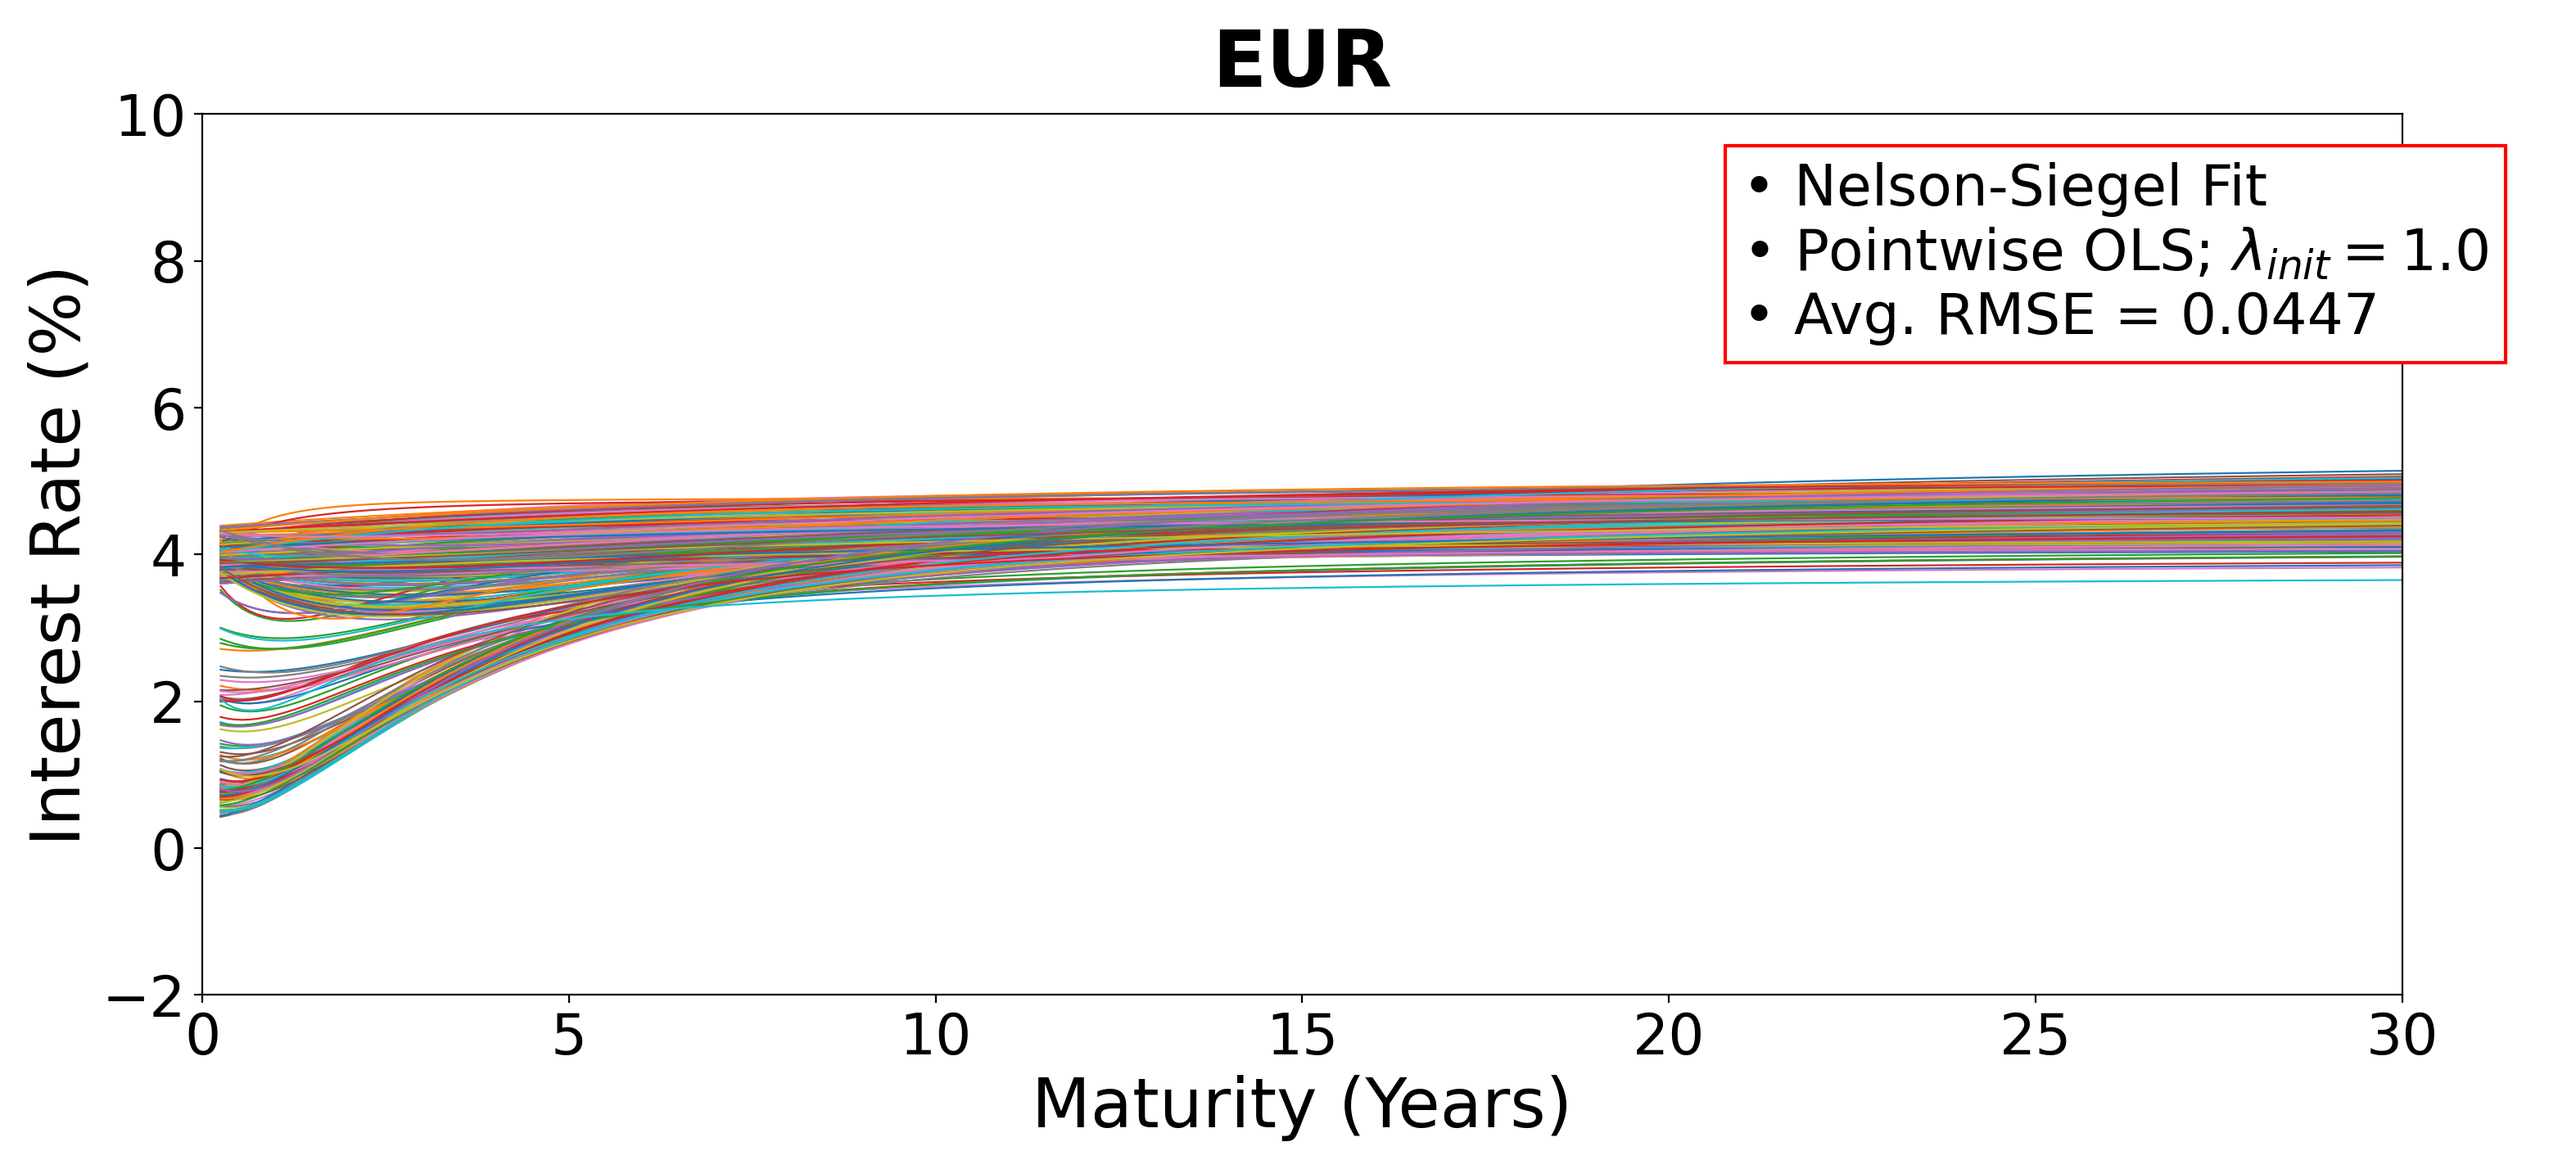
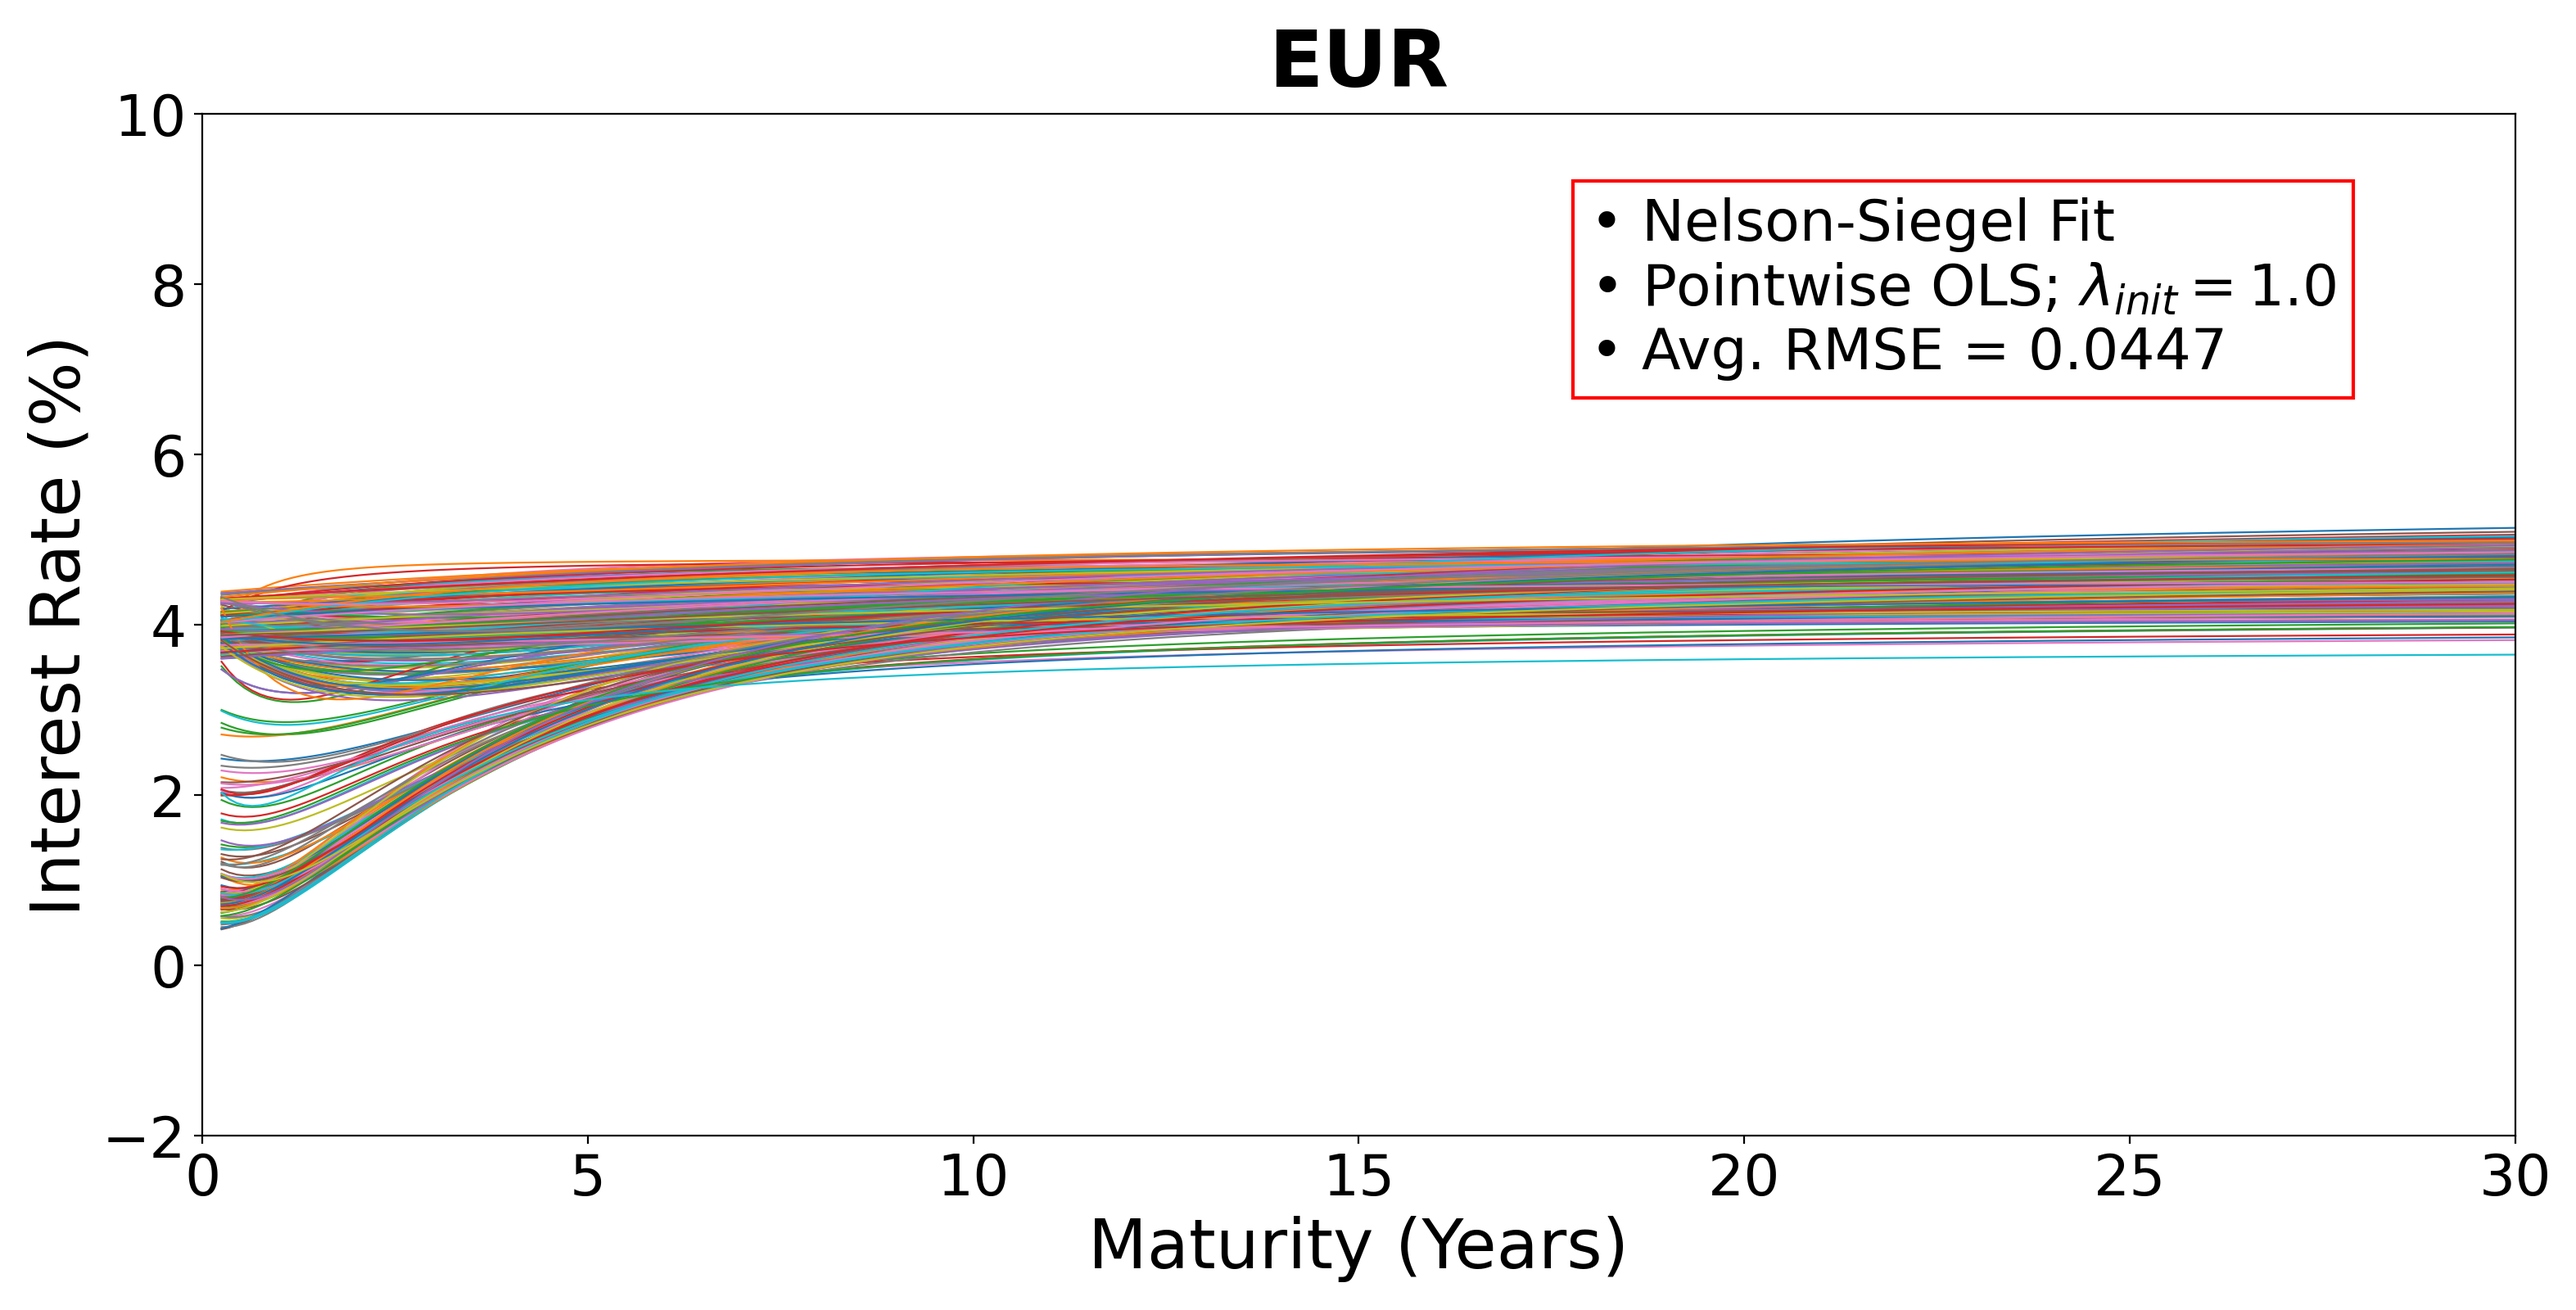
rd 3 resize

diff --git a/Chapter 2/parametric_models/yplot_ns_pointwise.py b/Chapter 2/parametric_models/yplot_ns_pointwise.py
@@ -30,7 +30,7 @@ def yield_curves_plot(maturities_years, fitted_curves, rmse_values, title, save_
 
     DPI = 100
     W_IN = 1573 / DPI
-    H_IN = 714  / DPI
+    H_IN = 800  / DPI
     fig, ax = plt.subplots(figsize=(W_IN, H_IN), dpi=DPI)
     for curve in fitted_curves:
         ax.plot(x_grid, curve(x_grid), linewidth=0.8)
@@ -57,7 +57,7 @@ def yield_curves_plot(maturities_years, fitted_curves, rmse_values, title, save_
         f"• Avg. RMSE = {avg_rmse:.4f}"
     )
     ax.text(
-        0.70, 0.75, info,
+        0.60, 0.75, info,
         transform=ax.transAxes,
         fontsize=25,
         bbox=dict(boxstyle="square", facecolor="white", edgecolor="red", linewidth=1.5)
